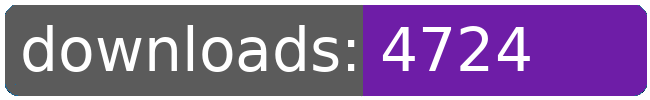
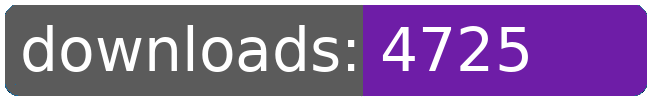
dl log written

Changed region(s): [[0.7692, 0.27, 0.8308, 0.72]]

diff --git a/README.md b/README.md
@@ -142,8 +142,8 @@
 		<td>4680</td>
 		<td>4697</td>
 		<td>4711</td>
-		<td>4724</td>
-		<td>+ 13</td>
+		<td>4725</td>
+		<td>+ 14</td>
 	</tr>
 	<tr>
 		<td>obtainheron</td>
@@ -274,8 +274,8 @@
 		<td></td>
 		<td></td>
 		<td></td>
-		<td>102619</td>
-		<td>269</td>
+		<td>102620</td>
+		<td>270</td>
 	</tr>
 </table>
 </sub></sup>
@@ -443,8 +443,8 @@
 		<td>4680</td>
 		<td>4697</td>
 		<td>4711</td>
-		<td>4724</td>
-		<td>+ 13</td>
+		<td>4725</td>
+		<td>+ 14</td>
 	</tr>
 	<tr>
 		<td>unlock.hai.reveal</td>
@@ -553,8 +553,8 @@
 		<td></td>
 		<td></td>
 		<td></td>
-		<td>102619</td>
-		<td>269</td>
+		<td>102620</td>
+		<td>270</td>
 	</tr>
 </table>
 </sub></sup>
